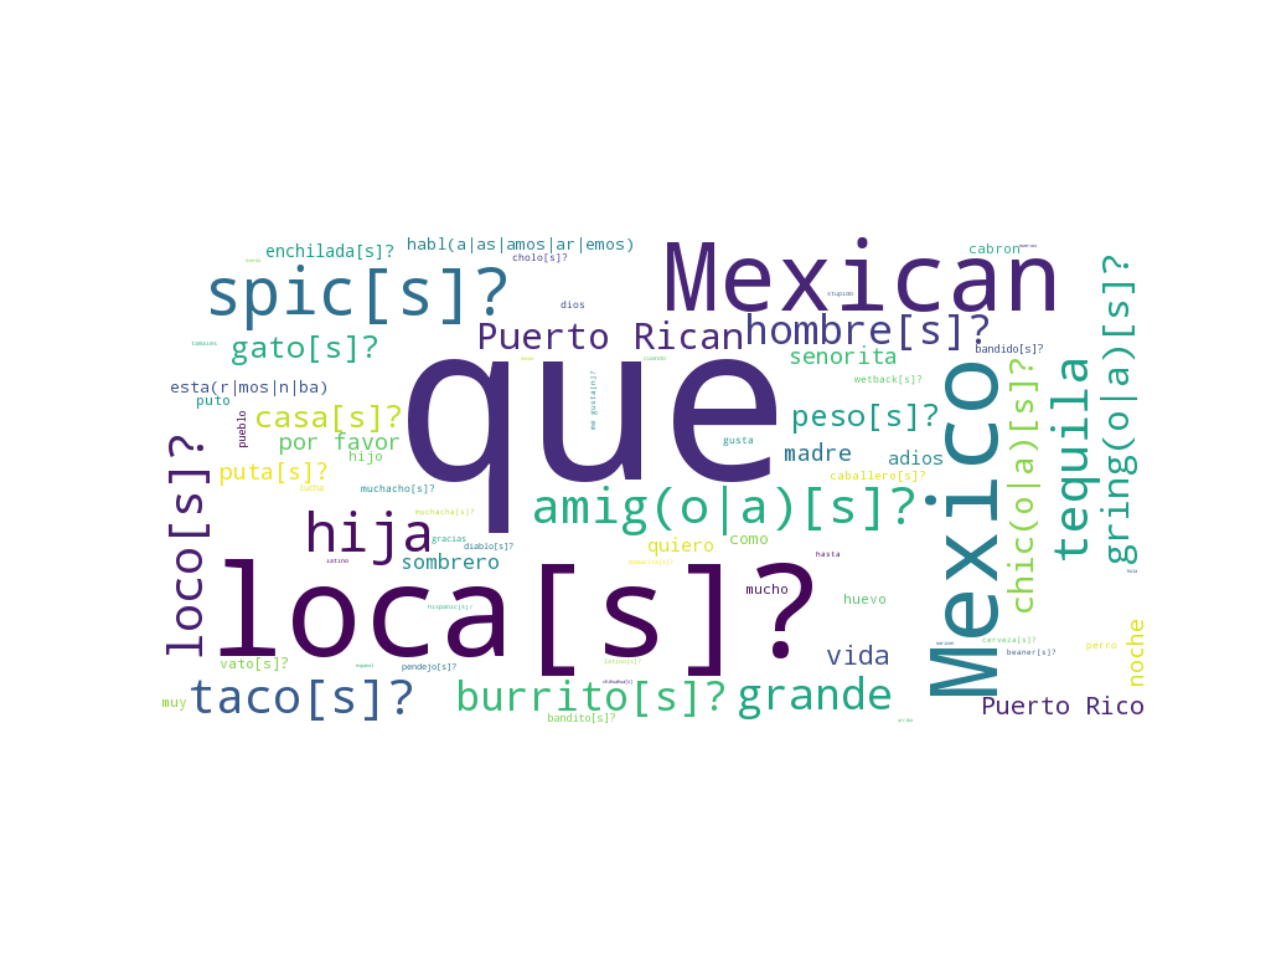
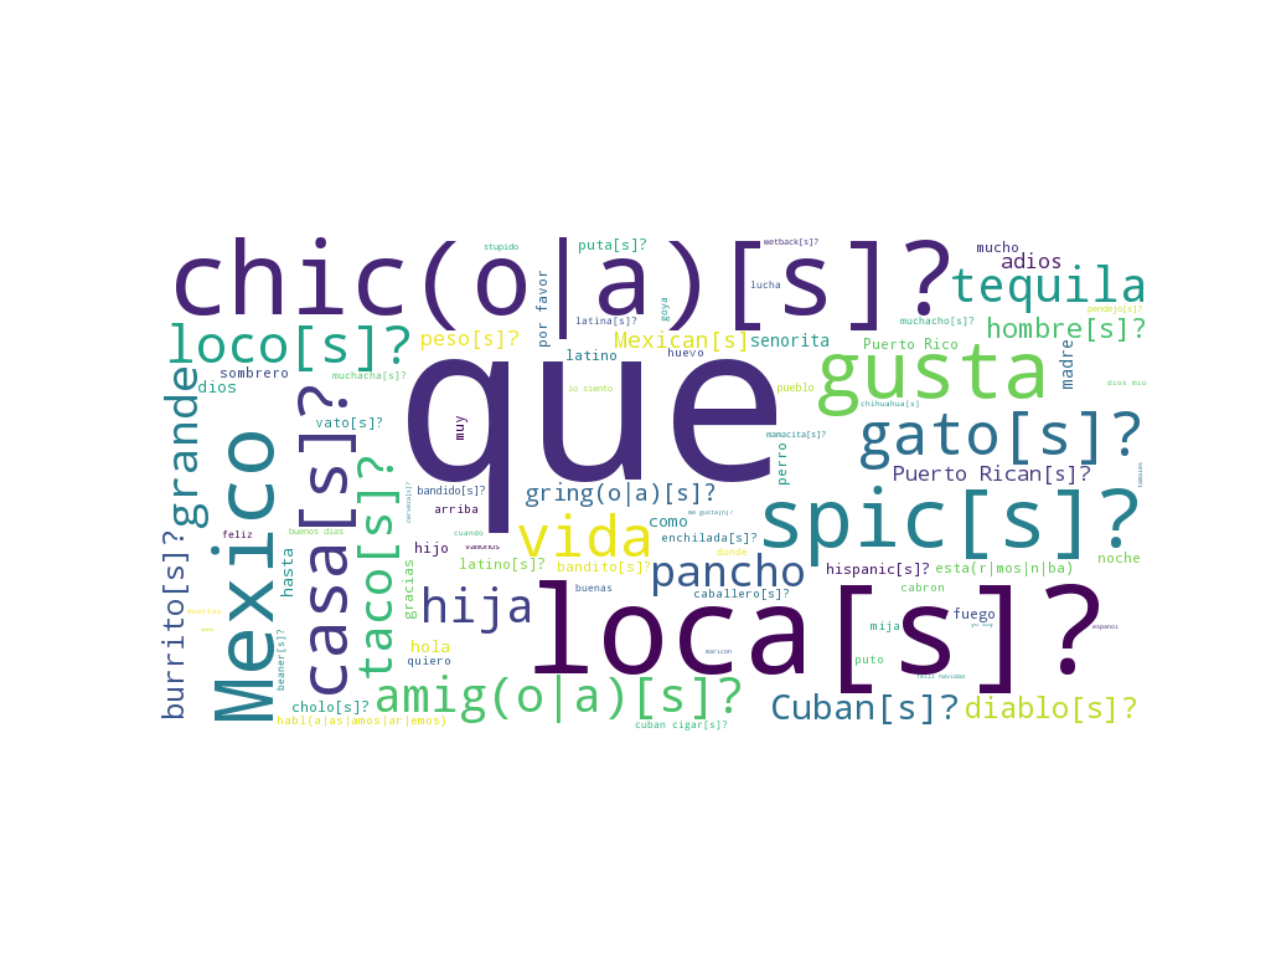
updates to code and word clouds

Changed region(s): [[0.125, 0.25, 0.9062, 0.7812], [0.3438, 0.4375, 0.375, 0.4688]]

diff --git a/latinx_wc.py b/latinx_wc.py
@@ -15,7 +15,6 @@ x= re.sub(r'\\','',x)
 # to name characters. e.g Bandito #2. decided to eliminate these occurrences to get the full quotes 
 x= re.sub(r' \(?#[0-9](\.[0-9]+)?\)?','',x)
 
-# quoted=re.findall(r'(?<=}|\))[^#}]+(?=  # \"|})',x)
 
 quoted = re.findall(r'(?<=}|\))[^#}]+(?=\s#)',x)
 
@@ -40,8 +39,8 @@ for i in mov:
   yrs.append(int(re.search(r'(?<=\()[0-9]{4}(?=\))',i[0]).group(0)))
 
 
-sp=["hola", "mijo", "illegals", "mija", "pendejo[s]?", "goya", "Mexico","Mexican", 
-  "Puerto Rico","Puerto Rican", "wetback[s]?", "bandido[s]?", "bandito[s]?" ,"mamacita[s]?", "latino","chic(o|a)[s]?",
+sp=["hola", "mijo", "illegals", "mija", "pendejo[s]?", "goya", "Mexico","Mexican[s]", 
+  "Puerto Rico","Puerto Rican[s]?", "wetback[s]?", "bandido[s]?", "bandito[s]?" ,"mamacita[s]?", "latino","chic(o|a)[s]?",
 "amig(o|a)[s]?","caramba", "taco[s]?", "burrito[s]?", "gring(o|a)[s]?", "gracias", "adios",
 "hasta", "noche", "cerveza[s]?", "grande", "vato[s]?", "loco[s]?", "loca[s]?", "vida", "espanol", "casa[s]?",
 "latino[s]?", "latina[s]?", "hispanic[s]?", "buenos dias", "donde", "esta(r|mos|n|ba)", "diablo[s]?", "hombre[s]?", 
@@ -52,10 +51,10 @@ sp=["hola", "mijo", "illegals", "mija", "pendejo[s]?", "goya", "Mexico","Mexican
 "senorita", "pancho", "quiero", "huevo", "tequila",
 "tamales", "andale", "caballero[s]?", "sombrero", "queso", "chihuahua[s]", "por que", "buenas",
 "gusta", "lo siento", "feliz","feliz navidad", "buena suerte", "que", "cuando", "como","me gusta[n]?",
-"yo soy", "dios", "dios mio","cuban[s]?","cuban cigar[s]?","peso[s]?"]
+"yo soy", "dios", "dios mio","Cuban[s]?","cuban cigar[s]?","peso[s]?"]
 
-d = {"hola":[], "mijo":[], "illegals":[], "mija":[], "pendejo[s]?":[], "goya":[], "Mexico":[],"Mexican":[], 
-  "Puerto Rico":[],"Puerto Rican":[], "wetback[s]?":[], "bandido[s]?":[], "bandito[s]?" :[],"mamacita[s]?":[], "latino":[],"chic(o|a)[s]?":[],
+d = {"hola":[], "mijo":[], "illegals":[], "mija":[], "pendejo[s]?":[], "goya":[], "Mexico":[],"Mexican[s]":[], 
+  "Puerto Rico":[],"Puerto Rican[s]?":[], "wetback[s]?":[], "bandido[s]?":[], "bandito[s]?" :[],"mamacita[s]?":[], "latino":[],"chic(o|a)[s]?":[],
 "amig(o|a)[s]?":[],"caramba":[], "taco[s]?":[], "burrito[s]?":[], "gring(o|a)[s]?":[], "gracias":[], "adios":[],
 "hasta":[], "noche":[], "cerveza[s]?":[], "grande":[], "vato[s]?":[], "loco[s]?":[], "loca[s]?":[], "vida":[], "espanol":[], "casa[s]?":[],
 "latino[s]?":[], "latina[s]?":[], "hispanic[s]?":[], "buenos dias":[], "donde":[], "esta(r|mos|n|ba)":[], "diablo[s]?":[], "hombre[s]?":[], 
@@ -66,12 +65,12 @@ d = {"hola":[], "mijo":[], "illegals":[], "mija":[], "pendejo[s]?":[], "goya":[]
 "senorita":[], "pancho":[], "quiero":[], "huevo":[], "tequila":[],
 "tamales":[], "andale":[], "caballero[s]?":[], "sombrero":[], "queso":[], "chihuahua[s]":[], "por que":[], "buenas":[],
 "gusta":[], "lo siento":[], "feliz":[],"feliz navidad":[], "buena suerte":[], "que":[], "cuando":[], "como":[],"me gusta[n]?":[],
-"yo soy":[], "dios":[], "dios mio":[],"cuban[s]?":[],"cuban cigar[s]?":[],"peso[s]?":[]}
+"yo soy":[], "dios":[], "dios mio":[],"Cuban[s]?":[],"cuban cigar[s]?":[],"peso[s]?":[]}
 
 
 for i in quoted:
   for j in sp:
-    d[j].append(len(re.findall('[!?.\[\]\s\'\"]'+j+'[!?.\[\]\s\'\",]?',i)))
+    d[j].append(len(re.findall('[!?.\[\]\s\'\"]'+j+'[!?.\[\]\s\'\",]?',i,flags=re.IGNORECASE)))
 
 
 
@@ -82,7 +81,7 @@ for i in sp:
 
 
 
-# word cloud for quotes from both movies and TV shows, spanning from 1894 to 2017
+word cloud for quotes from both movies and TV shows, spanning from 1894 to 2017
 cloud = wordcloud.WordCloud(background_color="white",width=800, height=400,random_state=23)
 plt.imshow(cloud.generate_from_frequencies(total), interpolation='bilinear')
 plt.axis("off")
@@ -93,7 +92,7 @@ d2= {key: [] for key in d}
 
 for i in mov:
   for j in sp:
-    d2[j].append(len(re.findall('[!?.\[\]\s\'\"]'+j+'[!?.\[\]\s\'\",]?',i[0])))
+    d2[j].append(len(re.findall('[!?.\[\]\s\'\"]'+j+'[!?.\[\]\s\'\",]?',i[0],flags=re.IGNORECASE)))
 
 
 tm={}
@@ -107,74 +106,74 @@ plt.axis("off")
 plt.show()
 
 
-df = pd.DataFrame(d2)
-df['years']=yrs
-fifties = df[(df.years>=1950) & (df.years<1960)]
-sixties = df[(df.years>=1960) & (df.years<1970)]
-seventies = df[(df.years>=1970) & (df.years<1980)]
-eighties = df[(df.years>=1980) & (df.years<1990)]
-nineties = df[(df.years>=1990) & (df.years<2000)]
-presentish = df[(df.years>=2000) & (df.years<2018)]
+# df = pd.DataFrame(d2)
+# df['years']=yrs
+# fifties = df[(df.years>=1950) & (df.years<1960)]
+# sixties = df[(df.years>=1960) & (df.years<1970)]
+# seventies = df[(df.years>=1970) & (df.years<1980)]
+# eighties = df[(df.years>=1980) & (df.years<1990)]
+# nineties = df[(df.years>=1990) & (df.years<2000)]
+# presentish = df[(df.years>=2000) & (df.years<2018)]
 
-tm50 = {}
-tm60={}
-tm70={}
-tm80={}
-tm90={}
-tm2000={}
+# tm50 = {}
+# tm60={}
+# tm70={}
+# tm80={}
+# tm90={}
+# tm2000={}
 
-for i in sp:
-  if sum(fifties[i])>0:
-    tm50[i]=int(sum(fifties[i]))
-  if sum(sixties[i])>0:
-    tm60[i]=int(sum(sixties[i]))
-  if sum(seventies[i])>0:
-    tm70[i]=int(sum(seventies[i]))
-  if sum(eighties[i])>0:
-    tm80[i]=int(sum(eighties[i]))
-  if sum(nineties[i])>0:
-    tm90[i]=int(sum(nineties[i]))
-  if sum(presentish[i])>0:
-    tm2000[i]=int(sum(presentish[i]))
-
-
-
-cloud50 = wordcloud.WordCloud(background_color="white",width=800, height=400, random_state=23)
-plt.imshow(cloud50.generate_from_frequencies(tm50), interpolation='bilinear')
-plt.axis("off")
-plt.show()
+# for i in sp:
+#   if sum(fifties[i])>0:
+#     tm50[i]=int(sum(fifties[i]))
+#   if sum(sixties[i])>0:
+#     tm60[i]=int(sum(sixties[i]))
+#   if sum(seventies[i])>0:
+#     tm70[i]=int(sum(seventies[i]))
+#   if sum(eighties[i])>0:
+#     tm80[i]=int(sum(eighties[i]))
+#   if sum(nineties[i])>0:
+#     tm90[i]=int(sum(nineties[i]))
+#   if sum(presentish[i])>0:
+#     tm2000[i]=int(sum(presentish[i]))
 
 
 
-cloud60 = wordcloud.WordCloud(background_color="white",width=800, height=400,random_state=23)
-plt.imshow(cloud60.generate_from_frequencies(tm60), interpolation='bilinear')
-plt.axis("off")
-plt.show()
-
-
-cloud70 = wordcloud.WordCloud(background_color="white",width=800, height=400,random_state=23)
-plt.imshow(cloud70.generate_from_frequencies(tm70), interpolation='bilinear')
-plt.axis("off")
-plt.show()
-
-
-cloud80 = wordcloud.WordCloud(background_color="white",width=800, height=400,random_state=23)
-plt.imshow(cloud80.generate_from_frequencies(tm80), interpolation='bilinear')
-plt.axis("off")
-plt.show()
-
-
-cloud90 = wordcloud.WordCloud(background_color="white",width=800, height=400,random_state=23)
-plt.imshow(cloud90.generate_from_frequencies(tm90), interpolation='bilinear')
-plt.axis("off")
-plt.show()
+# cloud50 = wordcloud.WordCloud(background_color="white",width=800, height=400, random_state=23)
+# plt.imshow(cloud50.generate_from_frequencies(tm50), interpolation='bilinear')
+# plt.axis("off")
+# plt.show()
 
 
 
-cloud2000s = wordcloud.WordCloud(background_color="white",width=800, height=400,random_state=23)
-plt.imshow(cloud2000s.generate_from_frequencies(tm2000), interpolation='bilinear')
-plt.axis("off")
-plt.show()
+# cloud60 = wordcloud.WordCloud(background_color="white",width=800, height=400,random_state=23)
+# plt.imshow(cloud60.generate_from_frequencies(tm60), interpolation='bilinear')
+# plt.axis("off")
+# plt.show()
+
+
+# cloud70 = wordcloud.WordCloud(background_color="white",width=800, height=400,random_state=23)
+# plt.imshow(cloud70.generate_from_frequencies(tm70), interpolation='bilinear')
+# plt.axis("off")
+# plt.show()
+
+
+# cloud80 = wordcloud.WordCloud(background_color="white",width=800, height=400,random_state=23)
+# plt.imshow(cloud80.generate_from_frequencies(tm80), interpolation='bilinear')
+# plt.axis("off")
+# plt.show()
+
+
+# cloud90 = wordcloud.WordCloud(background_color="white",width=800, height=400,random_state=23)
+# plt.imshow(cloud90.generate_from_frequencies(tm90), interpolation='bilinear')
+# plt.axis("off")
+# plt.show()
+
+
+
+# cloud2000s = wordcloud.WordCloud(background_color="white",width=800, height=400,random_state=23)
+# plt.imshow(cloud2000s.generate_from_frequencies(tm2000), interpolation='bilinear')
+# plt.axis("off")
+# plt.show()
 
 
 
